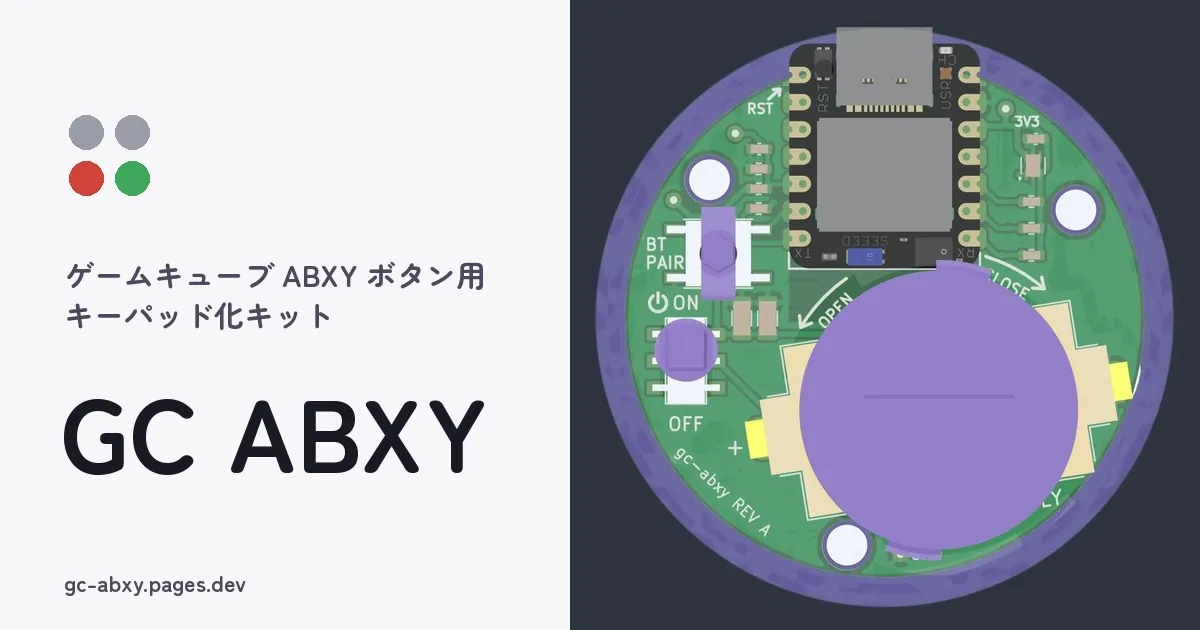
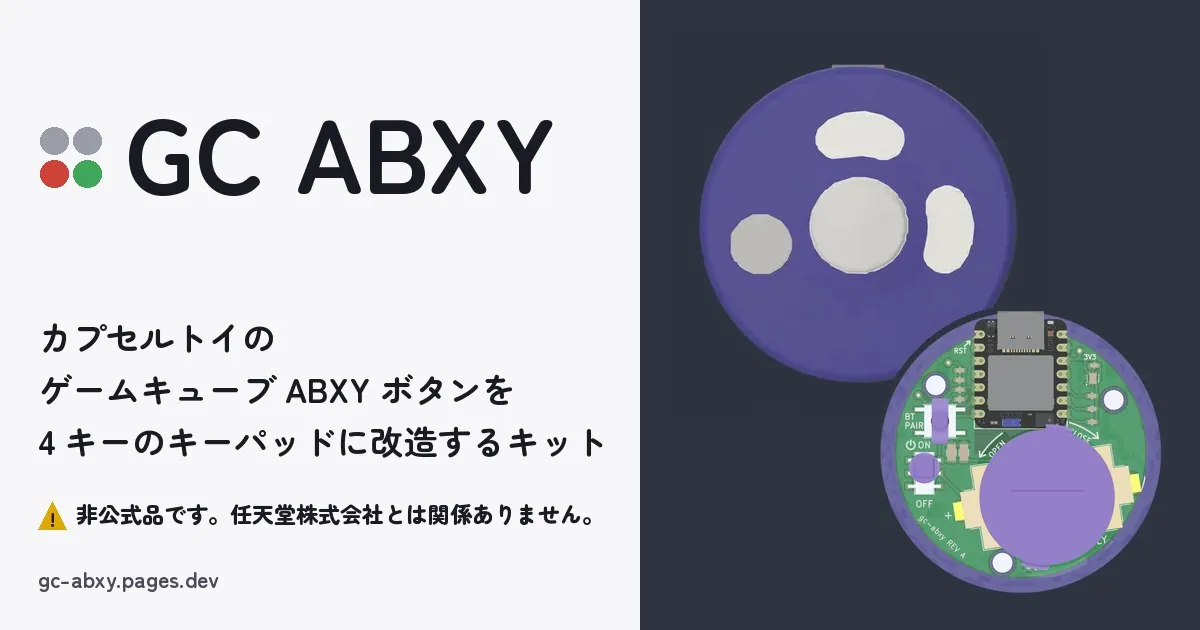
共有用の画像を、何を何にするキットかと非公式の注記が分かる形にする。電池ホルダーの向きの指示を消す

diff --git a/site/index.html b/site/index.html
@@ -12,7 +12,7 @@
 <meta property="og:title" content="GC ABXY｜ゲームキューブ ABXY ボタン用 キーパッド化キット">
 <meta property="og:description" content="カプセルトイのゲームキューブ ABXY ボタンを、ワイヤレスと USB で使える 4 キーのキーパッドにする自作キット。組み立て・書き込み・使い方・仕様をまとめた取扱説明書です。">
 <meta property="og:url" content="https://gc-abxy.pages.dev/">
-<meta property="og:image" content="https://gc-abxy.pages.dev/assets/img/og.jpg?v=6f69403927">
+<meta property="og:image" content="https://gc-abxy.pages.dev/assets/img/og.jpg?v=77b155e849">
 <meta property="og:image:width" content="1200">
 <meta property="og:image:height" content="630">
 <meta name="twitter:card" content="summary_large_image">

diff --git a/site/prep/index.html b/site/prep/index.html
@@ -12,7 +12,7 @@
 <meta property="og:title" content="GC ABXY の準備（キットの部品・購入が必要な部品・道具）">
 <meta property="og:description" content="GC ABXY を組み立てる前にそろえるものと安全のための注意。キットに含まれる部品、購入が必要な部品（XIAO nRF52840・カプセルトイ・CR2450）と買える店、使う道具。">
 <meta property="og:url" content="https://gc-abxy.pages.dev/prep/">
-<meta property="og:image" content="https://gc-abxy.pages.dev/assets/img/og.jpg?v=6f69403927">
+<meta property="og:image" content="https://gc-abxy.pages.dev/assets/img/og.jpg?v=77b155e849">
 <meta property="og:image:width" content="1200">
 <meta property="og:image:height" content="630">
 <meta name="twitter:card" content="summary_large_image">

diff --git a/site/use/index.html b/site/use/index.html
@@ -12,7 +12,7 @@
 <meta property="og:title" content="GC ABXY の使い方（USB・ワイヤレス 3 台・LED の意味・電池交換）">
 <meta property="og:description" content="GC ABXY を USB とワイヤレスでつなぐ方法、3 台の切り替え、PROFILE ボタンの長押し、出荷状態に戻す方法、LED の色の意味、CR2450 の交換手順。">
 <meta property="og:url" content="https://gc-abxy.pages.dev/use/">
-<meta property="og:image" content="https://gc-abxy.pages.dev/assets/img/og.jpg?v=6f69403927">
+<meta property="og:image" content="https://gc-abxy.pages.dev/assets/img/og.jpg?v=77b155e849">
 <meta property="og:image:width" content="1200">
 <meta property="og:image:height" content="630">
 <meta name="twitter:card" content="summary_large_image">

diff --git a/site/build/index.html b/site/build/index.html
@@ -12,7 +12,7 @@
 <meta property="og:title" content="GC ABXY の組み立て方（カプセルトイの分解とケースの組み方）">
 <meta property="og:description" content="GC ABXY の組み立て手順。カプセルトイの分解、ケースの組み方、ボタンとスイッチの動きの確かめ方、電池の入れ方を順に説明します。">
 <meta property="og:url" content="https://gc-abxy.pages.dev/build/">
-<meta property="og:image" content="https://gc-abxy.pages.dev/assets/img/og.jpg?v=6f69403927">
+<meta property="og:image" content="https://gc-abxy.pages.dev/assets/img/og.jpg?v=77b155e849">
 <meta property="og:image:width" content="1200">
 <meta property="og:image:height" content="630">
 <meta name="twitter:card" content="summary_large_image">

diff --git a/site/help/index.html b/site/help/index.html
@@ -12,7 +12,7 @@
 <meta property="og:title" content="GC ABXY で困ったとき（症状と対処・診断・問い合わせ）">
 <meta property="og:description" content="つながらない、反応しない、スマホで画面のキーボードが出ないなどの症状と対処、ブラウザでの診断、バージョンの確認と問い合わせ先。">
 <meta property="og:url" content="https://gc-abxy.pages.dev/help/">
-<meta property="og:image" content="https://gc-abxy.pages.dev/assets/img/og.jpg?v=6f69403927">
+<meta property="og:image" content="https://gc-abxy.pages.dev/assets/img/og.jpg?v=77b155e849">
 <meta property="og:image:width" content="1200">
 <meta property="og:image:height" content="630">
 <meta name="twitter:card" content="summary_large_image">

diff --git a/site/solder/index.html b/site/solder/index.html
@@ -12,7 +12,7 @@
 <meta property="og:title" content="GC ABXY のはんだ付け（付ける部品は 4 つ）">
 <meta property="og:description" content="GC ABXY の基板に XIAO・電池ホルダー・スライドスイッチ・タクトスイッチをはんだ付けする手順と、テスターでのショートの確かめ方。">
 <meta property="og:url" content="https://gc-abxy.pages.dev/solder/">
-<meta property="og:image" content="https://gc-abxy.pages.dev/assets/img/og.jpg?v=6f69403927">
+<meta property="og:image" content="https://gc-abxy.pages.dev/assets/img/og.jpg?v=77b155e849">
 <meta property="og:image:width" content="1200">
 <meta property="og:image:height" content="630">
 <meta name="twitter:card" content="summary_large_image">

diff --git a/site/firmware/index.html b/site/firmware/index.html
@@ -12,7 +12,7 @@
 <meta property="og:title" content="GC ABXY のプログラム書き込みとキーの割り当て変更">
 <meta property="og:description" content="GC ABXY にプログラム（ZMK ファームウェア）を書き込む手順と、ZMK Studio で A・B・X・Y の割り当てを変える方法。">
 <meta property="og:url" content="https://gc-abxy.pages.dev/firmware/">
-<meta property="og:image" content="https://gc-abxy.pages.dev/assets/img/og.jpg?v=6f69403927">
+<meta property="og:image" content="https://gc-abxy.pages.dev/assets/img/og.jpg?v=77b155e849">
 <meta property="og:image:width" content="1200">
 <meta property="og:image:height" content="630">
 <meta name="twitter:card" content="summary_large_image">

diff --git a/site/making/index.html b/site/making/index.html
@@ -12,7 +12,7 @@
 <meta property="og:title" content="GC ABXY 開発記（きっかけと、AI と進めた作り方）">
 <meta property="og:description" content="GC ABXY の開発記。作ったきっかけと、要件定義・ケースと基板の設計・回路・取扱説明書を AI と進めた作り方。">
 <meta property="og:url" content="https://gc-abxy.pages.dev/making/">
-<meta property="og:image" content="https://gc-abxy.pages.dev/assets/img/og.jpg?v=6f69403927">
+<meta property="og:image" content="https://gc-abxy.pages.dev/assets/img/og.jpg?v=77b155e849">
 <meta property="og:image:width" content="1200">
 <meta property="og:image:height" content="630">
 <meta name="twitter:card" content="summary_large_image">

diff --git a/site/specs/index.html b/site/specs/index.html
@@ -12,7 +12,7 @@
 <meta property="og:title" content="GC ABXY の仕様（大きさ・接続・電源・ファームウェア）">
 <meta property="og:description" content="GC ABXY の仕様一覧。キー、外形、USB とワイヤレスの接続、CR2450 の電池、ZMK ファームウェア。">
 <meta property="og:url" content="https://gc-abxy.pages.dev/specs/">
-<meta property="og:image" content="https://gc-abxy.pages.dev/assets/img/og.jpg?v=6f69403927">
+<meta property="og:image" content="https://gc-abxy.pages.dev/assets/img/og.jpg?v=77b155e849">
 <meta property="og:image:width" content="1200">
 <meta property="og:image:height" content="630">
 <meta name="twitter:card" content="summary_large_image">
